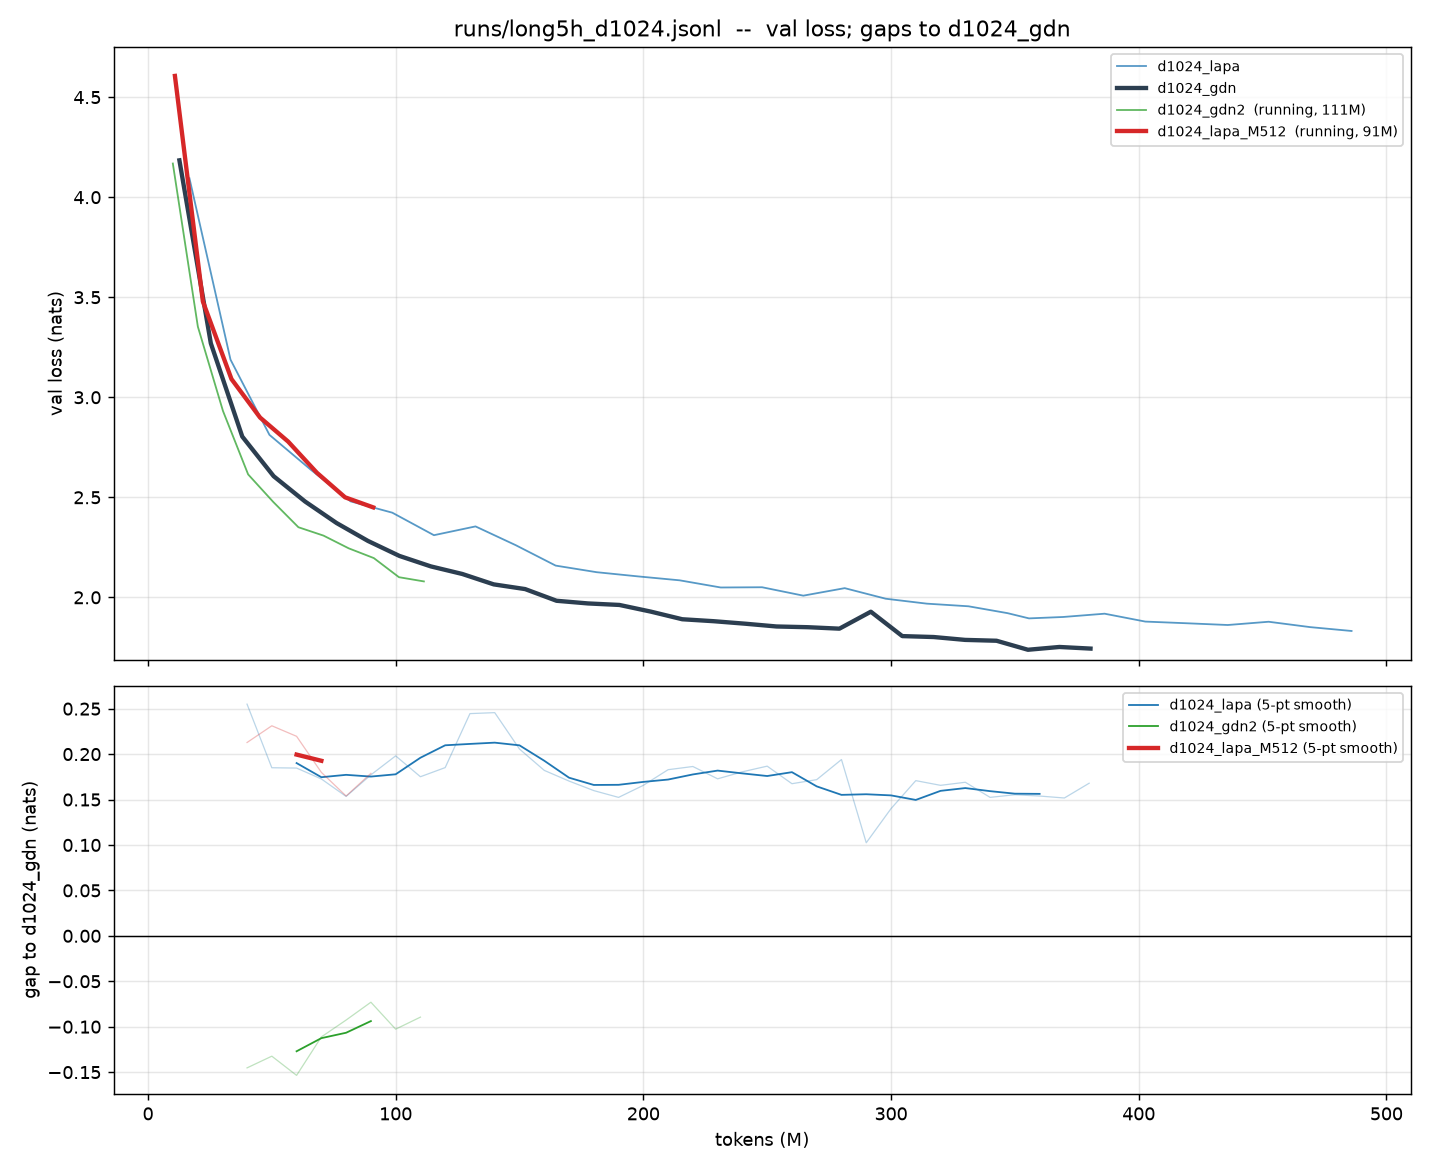
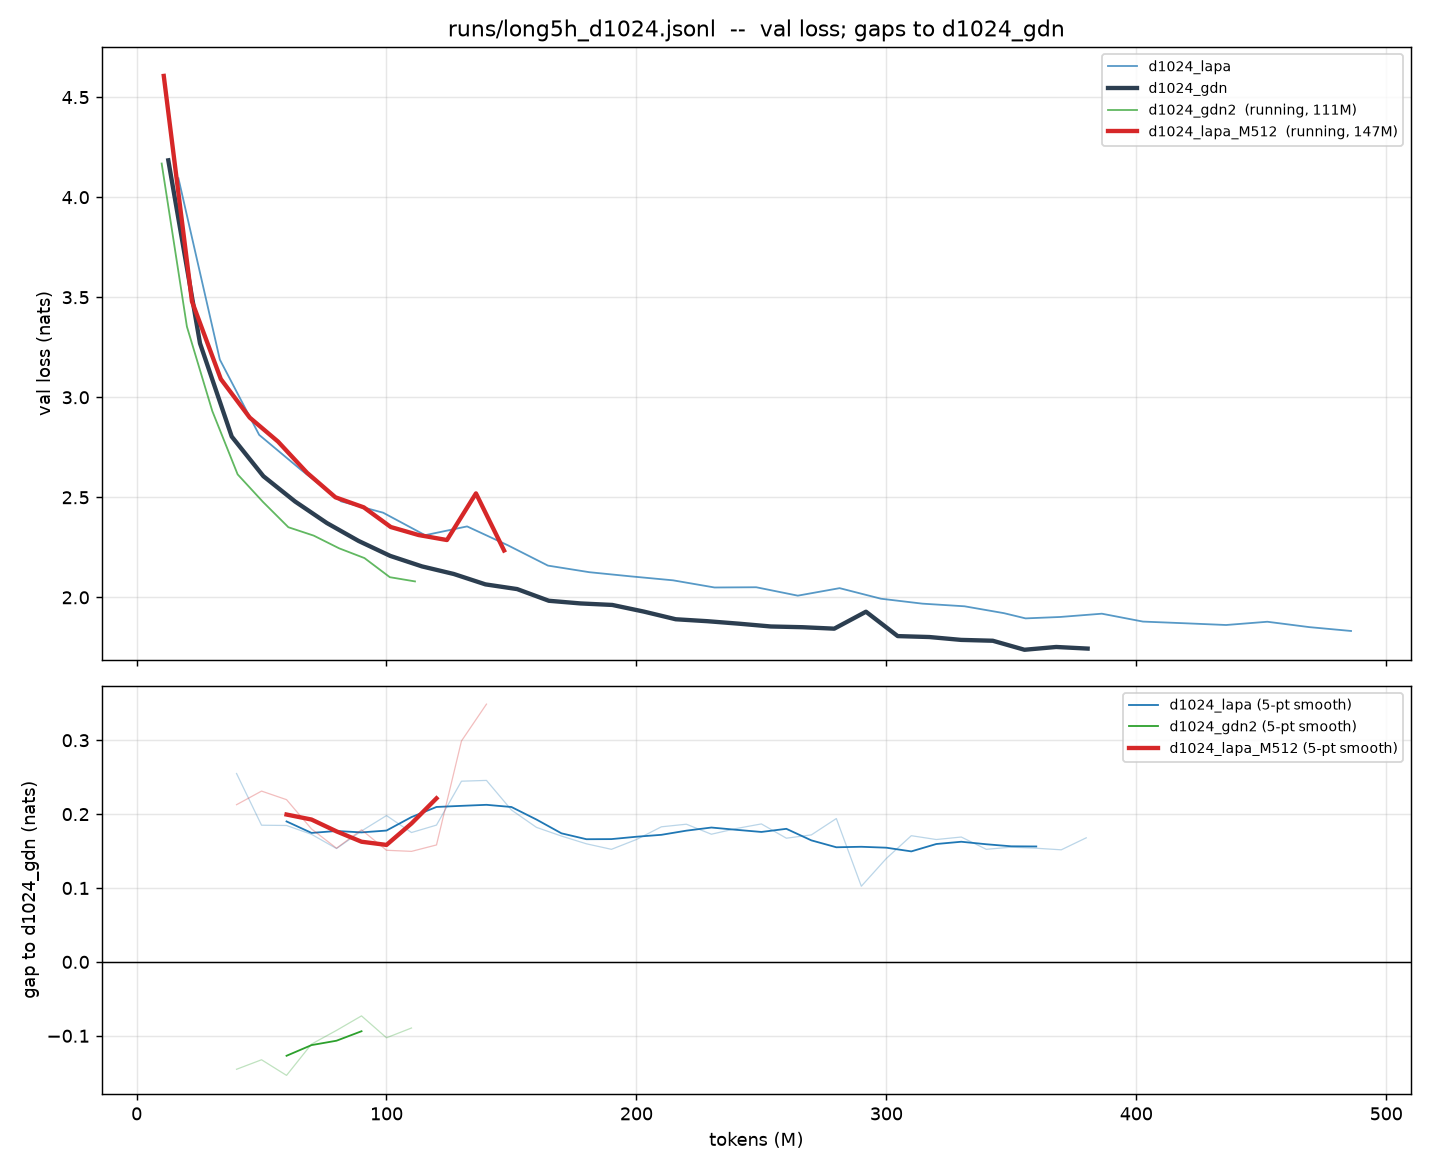
theta_scale 0.02 is a d=128 setting that never scaled; correct it and re-test M on top
The round-1 checkpoint indicts the init directly rather than by inference. theta started
at 0.02*randn (mean|theta| 0.016) and finished 5 h at 0.058 / 0.111 / 0.157 / 0.256 /
0.268 / 0.282 / 0.231 / 0.317 by layer -- 4x to 20x, monotone with depth, and AGAINST
AdamW's default weight_decay of 0.01. The gradient pushed on it all run. theta weighs
CONTENT (theta.K(h)) against POSITION (s.omega) in the phase code; 0.02 was settled at
d=128, where ||K_m|| at init is 0.577, exactly as at d=1024 -- the init never scaled with
width at all.

It also matches the shape of the failure, which capacity does not. The gap is a CONSTANT
offset: slopes -0.3454 +- 0.0141 vs -0.3321 +- 0.0155, a 0.63 sigma difference, and even
at face value it would need 3e5x the tokens to close 0.168 nats. A capacity ceiling
flattens the slope; this does not, and doubling the mixer (state 156k -> 566k) moved
nothing -- 0.0005 nats apart at 80M tokens. A mis-set constant costs a fixed amount at
unchanged slope, which is the signature actually seen.

Queued, each a single change against the nearest arm:
  d1024_lapa_th02        round 1's shape, theta_scale 0.02 -> 0.20 (average learned
                         mean|theta| is 0.193, which an init reaches at 0.242)
  d1024_lapa_th02_M1024  M 256 -> 1024 on top of the corrected theta

theta costs nothing in parameters, state or throughput, so both readings stay available;
the ff-matched arm it replaced would have improved matched-token while worsening equal-
[…]

diff --git a/SPARK.md b/SPARK.md
@@ -336,6 +336,51 @@ long head's addressing exists for, and exactly where LapA crushed GDN at d=128 (
 0.85 vs 0.00 at L=512). Losing there at 8× the width is the signature of addressing
 that did not scale with the model, which is hypothesis (a).
 
+### theta_scale = 0.02 does not survive the move to d=1024
+
+The round-1 checkpoint says so directly. `theta` was initialised at `0.02*randn`
+(mean|theta| 0.016) and came out of 5 h at, by layer:
+
+| layer | 0 | 1 | 2 | 3 | 4 | 5 | 6 | 7 |
+|---|---|---|---|---|---|---|---|---|
+| mean\|theta\| | 0.058 | 0.111 | 0.157 | 0.256 | 0.268 | 0.282 | 0.231 | 0.317 |
+
+A 4x to 20x rise, monotone with depth, **against AdamW's default weight_decay of 0.01
+pulling it toward zero**. The gradient pushed on it for the whole run. `theta` sets how
+much CONTENT (`theta.K(h)`) there is against POSITION (`s.omega`) in the phase code, and
+0.02 was settled at d=128 — where `||K_m||` at init is 0.577, exactly what it is at
+d=1024, so the init never scaled with the width at all. The learned structure is sensible
+and was not available at d=128: shallow layers stay nearly positional, deep layers become
+strongly content-addressed.
+
+It also fits the shape of the failure better than capacity does. The round-1 gap is a
+CONSTANT offset — slopes −0.3454 ± 0.0141 (LapA) against −0.3321 ± 0.0155 (GDN), a
+**0.63 sigma** difference, indistinguishable, and even taken at face value that slope
+difference would need 3e5x the tokens to close 0.168 nats. A capacity ceiling would
+FLATTEN LapA's slope; it does not, and doubling the mixer moved nothing (below). A
+mis-set constant costs a fixed amount everywhere at unchanged slope, which is what is
+observed.
+
+`d1024_lapa_th02` (theta_scale 0.02 → 0.20, everything else round 1's) tests it as a
+single change. It costs nothing in parameters, state or throughput, so unlike a
+parameter-matched arm it is readable at matched tokens AND at equal wall clock.
+
+### Capacity is not the bottleneck (preliminary)
+
+`d1024_lapa_M512` doubles both M and dv (mixer 1.90M → 3.74M, state 156k → 566k). At 80M
+tokens it sat **0.0005 nats** from round 1, and its gap to GDN reproduced round 1's
++0.15..+0.22. Early, and the arm is being left to run, but if it holds: raising M further
+will not help, and the 1.44x speed advantage of the small mixer was efficiency rather
+than a capacity deficit in disguise.
+
+### The gap is smaller at equal wall clock than at matched tokens
+
+Both readings are legitimate and they are different claims (§6). At matched tokens the
+round-1 gap is +0.168; at equal wall clock — 18000 s each, which is what the protocol
+actually equalises — it is **+0.088**, because LapA's 1.28x throughput buys it 486M
+tokens against GDN's 381M. In token terms LapA needs 1.66x the data to reach GDN's loss
+but runs 1.28x faster, so it needs 1.30x the wall clock. Quote whichever, but say which.
+
 ### What is NOT answered
 
 **(a) Does M have to grow with d?** Still unmeasured, and now the question the whole
